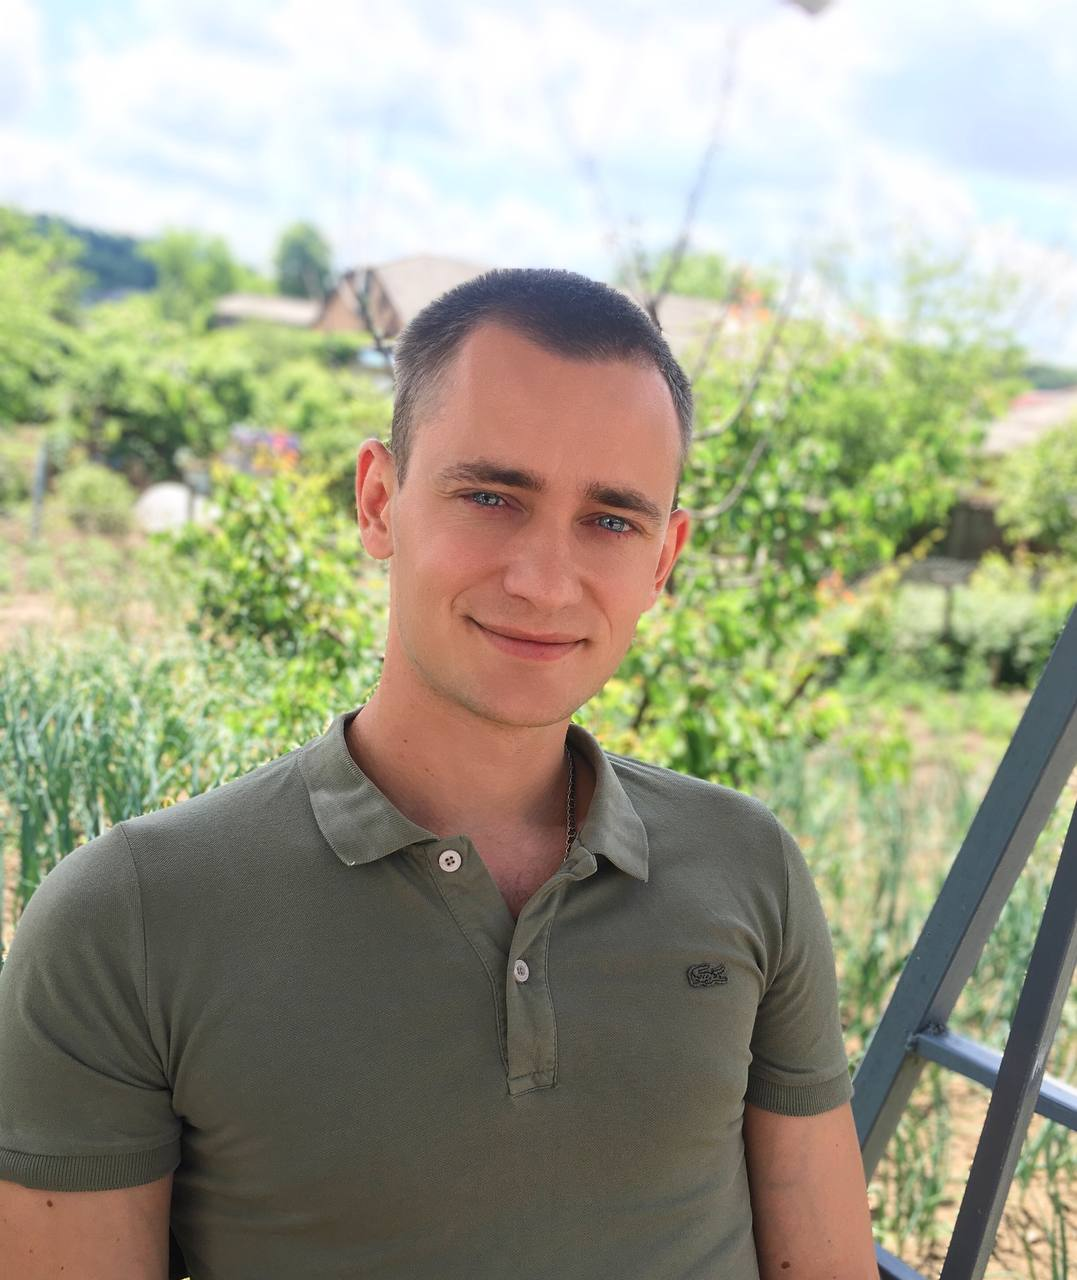
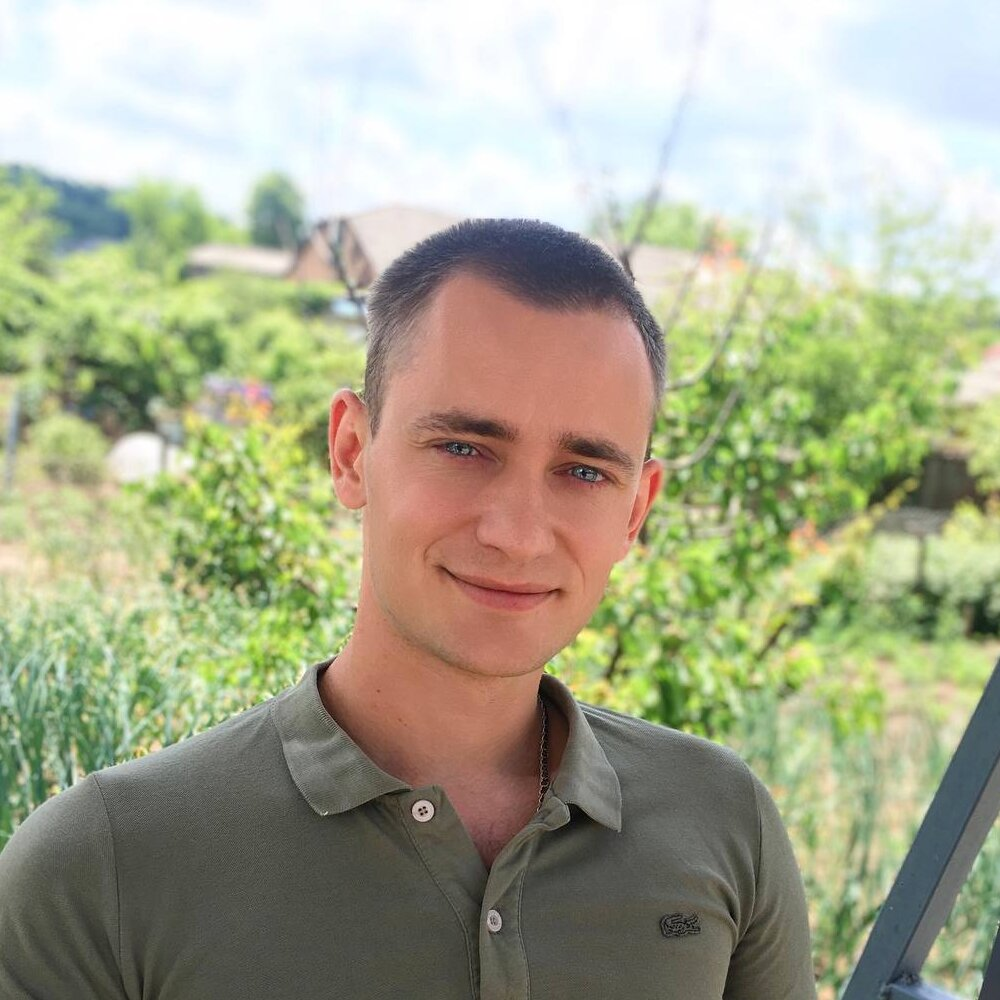
maestro

diff --git a/index.html b/index.html
@@ -1,0 +1,72 @@
+<!DOCTYPE html>
+<html>
+  <head>
+    <meta charset="UTF-8" />
+    <meta http-equiv="X-UA-Compatible" content="IE=edge" />
+    <meta name="viewport" content="width=device-width, initial-scale=1.0" />
+    <title>My awesome page</title>
+    <link
+      href="https://cdn.jsdelivr.net/npm/bootstrap@5.2.0-beta1/dist/css/bootstrap.min.css"
+      rel="stylesheet"
+      integrity="sha384-0evHe/X+R7YkIZDRvuzKMRqM+OrBnVFBL6DOitfPri4tjfHxaWutUpFmBp4vmVor"
+      crossorigin="anonymous"
+    />
+    <link rel="stylesheet" href="./css/styles.css" />
+    <script
+      src="https://cdn.jsdelivr.net/npm/bootstrap@5.2.0-beta1/dist/js/bootstrap.bundle.min.js"
+      integrity="sha384-pprn3073KE6tl6bjs2QrFaJGz5/SUsLqktiwsUTF55Jfv3qYSDhgCecCxMW52nD2"
+      crossorigin="anonymous"
+    ></script>
+  </head>
+  <body>
+    <header>
+      <nav class="navbar navbar-expand-lg bg-dark navbar-dark">
+        <div class="container">
+          <a class="navbar-brand p-0" href="/"
+            ><img src="./img/logo.png" alt="Logo of the page" width="50"
+          /></a>
+          <button
+            class="navbar-toggler"
+            type="button"
+            data-bs-toggle="collapse"
+            data-bs-target="#navbarNav"
+            aria-controls="navbarNav"
+            aria-expanded="false"
+            aria-label="Toggle navigation"
+          >
+            <span class="navbar-toggler-icon"></span>
+          </button>
+          <div class="collapse navbar-collapse" id="navbarNav">
+            <ul class="navbar-nav">
+              <li class="nav-item">
+                <a class="nav-link active" aria-current="page" href="#">Home</a>
+              </li>
+              <li class="nav-item">
+                <a class="nav-link" href="#">My favorite places</a>
+              </li>
+            </ul>
+          </div>
+        </div>
+      </nav>
+    </header>
+    <div class="container text-center my-5">
+      <div class="row">
+        <div class="col-lg-6 mx-auto">
+          <img
+            src="./img/photo.jpg"
+            class="rounded-img"
+            alt="Andrii Shcherbyna"
+          />
+          <h1 class="fw-light">Andrii Shcherbyna</h1>
+          <p class="lead text-muted">Frontend Developer</p>
+          <a href="https://google.com" target="_blank" class="btn btn-primary"
+            >Like</a
+          >
+          <a href="https://google.com" target="_blank" class="btn btn-warning"
+            >Like</a
+          >
+        </div>
+      </div>
+    </div>
+  </body>
+</html>

diff --git a/css/styles.css b/css/styles.css
@@ -1,0 +1,7 @@
+.rounded-img {
+  width: 60%;
+  border-radius: 50%;
+  box-shadow: 0 0 5px rgba(0, 0, 0, 0.3);
+  padding: 0.5em;
+  margin-bottom: 1em;
+}
